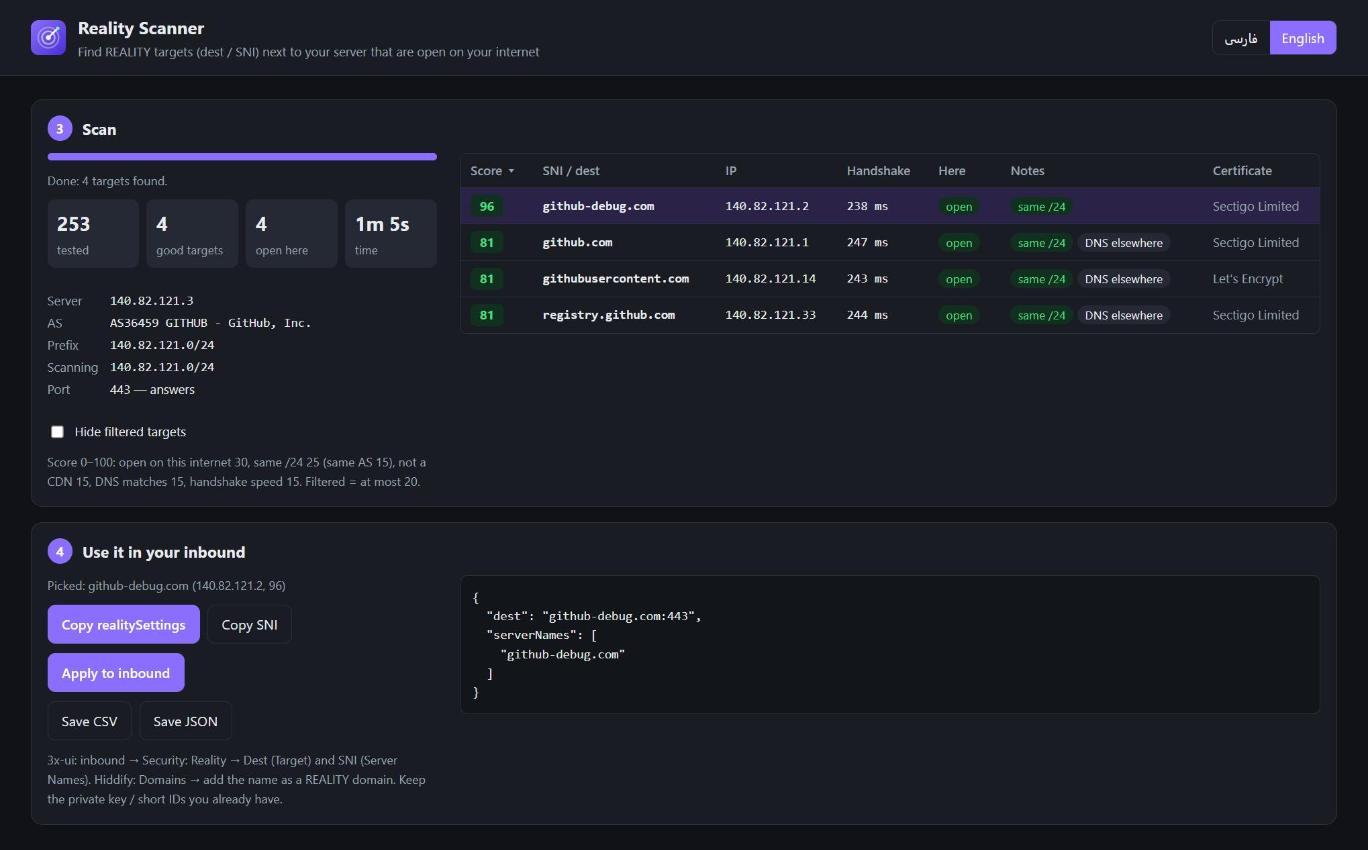
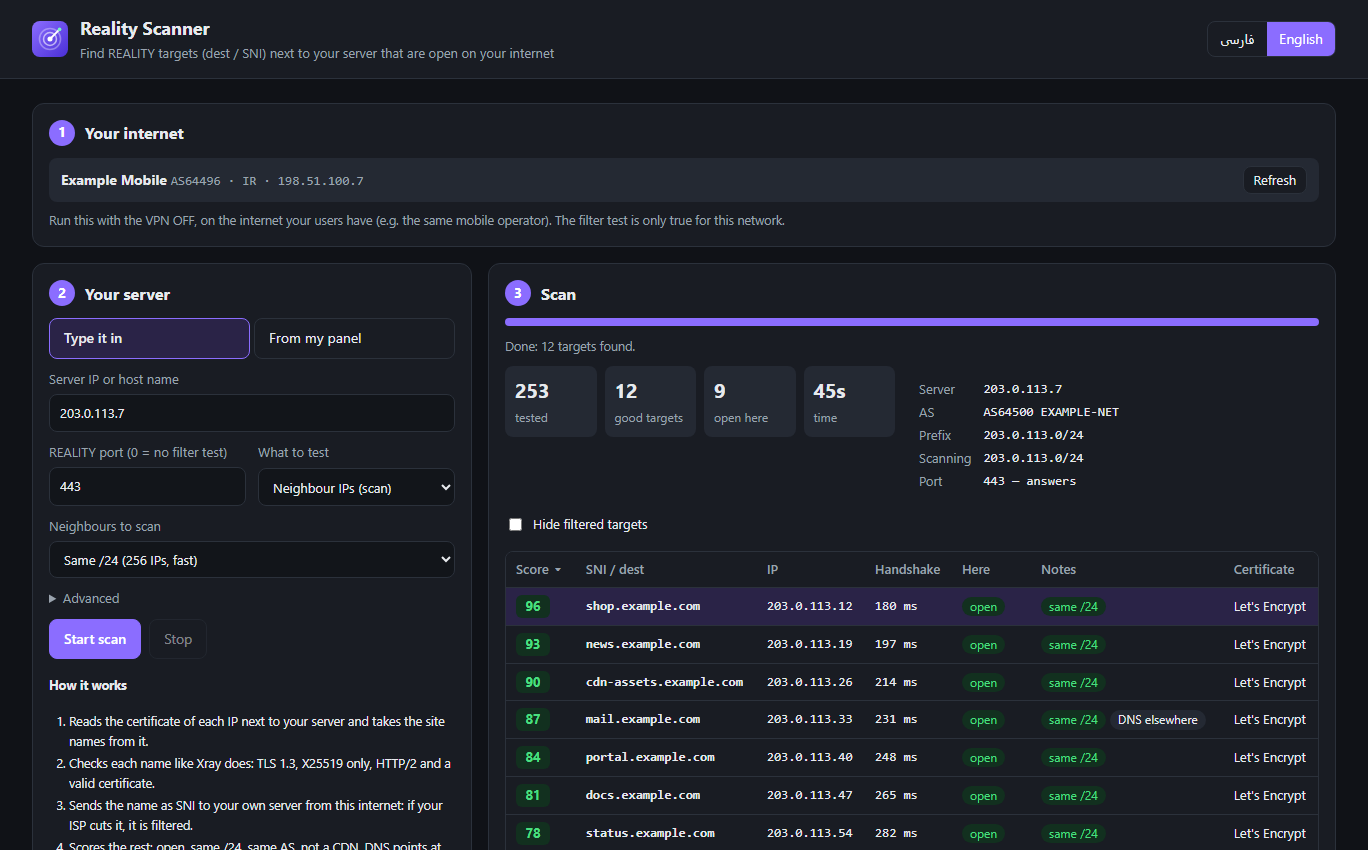
Site update

diff --git a/index.html b/index.html
@@ -207,8 +207,8 @@ html:not([lang="fa"]) [data-l="fa"], html:not([lang="en"]) [data-l="en"] { displ
         <p data-l="en">When a new build is out the app tells you (with a notification on Android), with the list of changes and a download button.</p></div>
       <div class="card"><div class="ico">🔒</div>
         <h3 data-l="fa">محلی و امن</h3><h3 data-l="en">Local and private</h3>
-        <p data-l="fa">همهچیز روی دستگاه خودتان اجرا میشود. رمز پنل ذخیره نمیشود و فقط برای همان درخواست به پنل خودتان فرستاده میشود.</p>
-        <p data-l="en">Everything runs on your device. The panel password is not stored and only goes to your own panel, for that request.</p></div>
+        <p data-l="fa">همهچیز روی دستگاه خودتان اجرا میشود. رمز پنل فقط اگر خودتان بخواهید روی همین دستگاه ذخیره میشود و جز به پنل خودتان جایی فرستاده نمیشود.</p>
+        <p data-l="en">Everything runs on your device. The panel password is saved on this device only if you ask, and goes nowhere but your own panel.</p></div>
     </div>
   </section>
 
